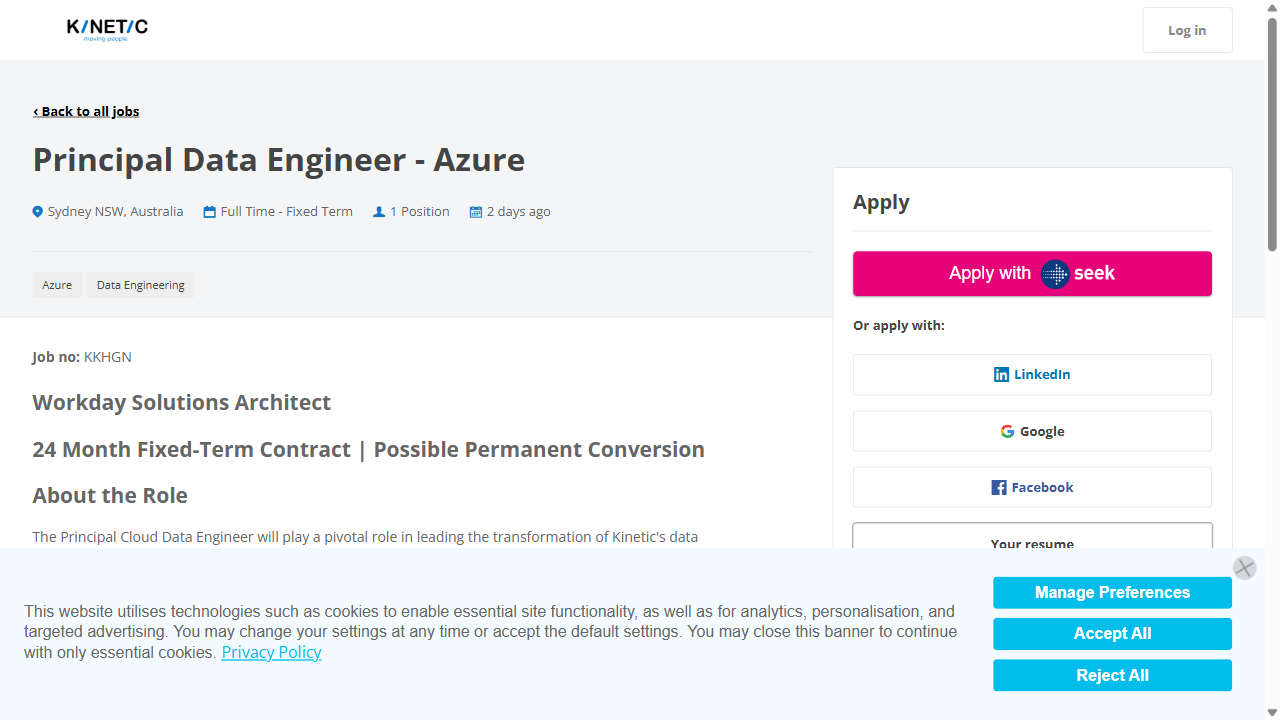
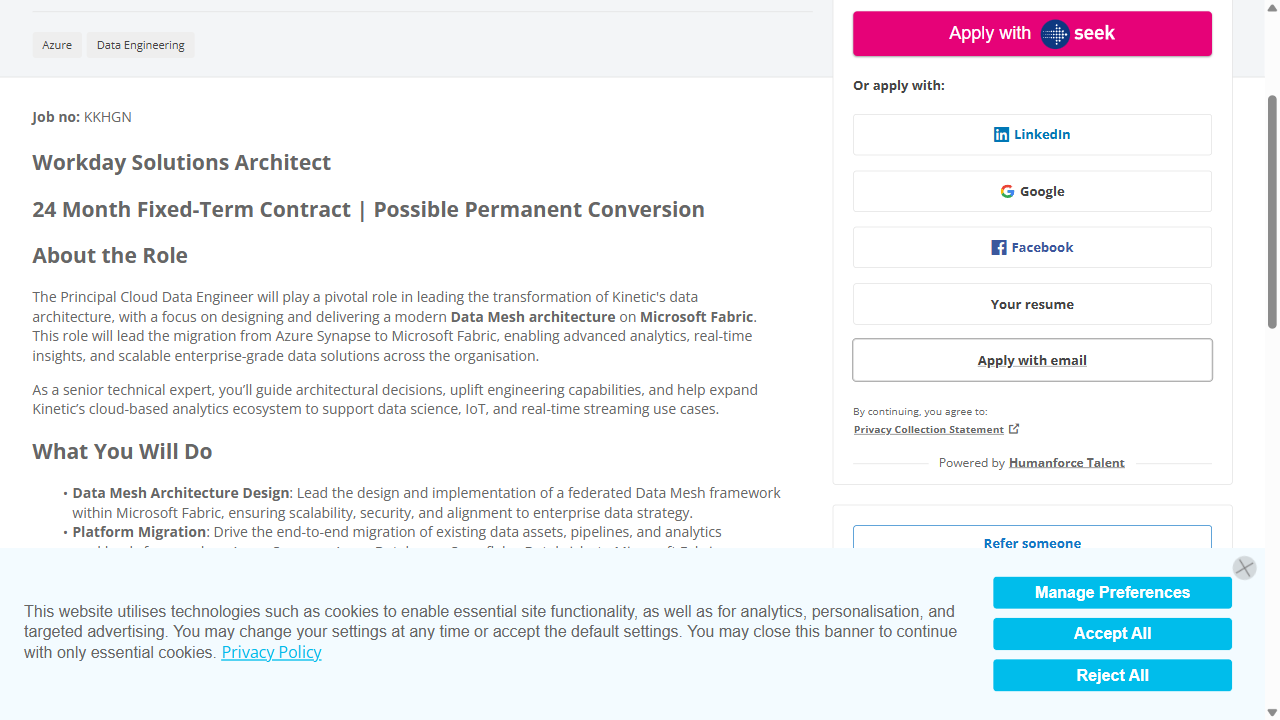
JD extraction from ad

diff --git a/backend/bots/handlers/livehire.py b/backend/bots/handlers/livehire.py
@@ -4,16 +4,28 @@ from bots.utils.form_utils import extract_form_fields, fill_form_by_index
 from bots.utils.claude_field_mapper import get_field_mapping_from_claude
 from app.resume.gpt_utils import generate_cover_letter  
 from bots.utils.pdf_utils import save_cover_letter_as_pdf
+from bots.utils.job_parser import extract_job_details_ai
 
 def apply_livehire(page, resume_path, user_info):
     print("🧠 Starting LiveHire Application Process...")
 
     try:
-        # Step 1: Wait for buttons to load 
+        # Step 1: Extract Job Title & Description via Claude
+        job_title, jd_text = extract_job_details_ai(page)
+        print(f"🧠 Claude-extracted title: {job_title}")
+        print(f"📄 JD length: {len(jd_text)} chars")
+
+        # Step 2: Generate cover letter (PDF + raw text)
+        cover_letter_text = generate_cover_letter(jd_text, user_info.get("resume_text", ""), job_title)
+        cover_letter_path = save_cover_letter_as_pdf(cover_letter_text)
+        user_info["cover_letter"] = cover_letter_text
+        user_info["cover_letter_path"] = cover_letter_path
+
+        # Step 3: Wait for buttons to load
         page.wait_for_selector("button", timeout=10000)
         buttons = page.locator("button")
 
-        # Step 2: Try to find a resume-related button
+        # Step 4: Try to find resume-related button
         matched_button = None
         for i in range(buttons.count()):
             text = buttons.nth(i).text_content()
@@ -24,7 +36,7 @@ def apply_livehire(page, resume_path, user_info):
                     print(f"✅ Found resume-related button: '{clean_text}'")
                     break
 
-        # Step 3: Fallback to Claude if no match
+        # Step 5: Fallback to Claude if no match
         if not matched_button:
             print("🤖 No resume-related button found. Using Claude...")
             texts = [btn.text_content() for btn in buttons.element_handles()]
@@ -33,35 +45,30 @@ def apply_livehire(page, resume_path, user_info):
             print(f"🤖 Claude says to click: '{best_button}'")
             matched_button = page.locator(f"button:has-text('{best_button}')").first
 
-        # Step 4: Click the matched button
+        # Step 6: Click the matched button
         matched_button.wait_for(timeout=10000)
         matched_button.click()
 
-        cover_letter_text = generate_cover_letter(jd_text, resume_text, job_title)
-        cover_letter_path = save_cover_letter_as_pdf(cover_letter_text)
-
-        user_info["cover_letter"] = cover_letter_text
-        user_info["cover_letter_path"] = cover_letter_path
-
-        # Step 5: Extract form structure
+        # Step 7: Extract form fields
         print("🔍 Extracting visible form fields...")
         fields = extract_form_fields(page)
 
-        # Step 6: Get Claude's index-to-userinfo mapping
+        # Step 8: Get Claude's mapping
         print("🧠 Asking Claude to map fields to user info...")
         mapping = get_field_mapping_from_claude(user_info, fields)
 
-        # Step 7: Fill the form
+        # Step 9: Fill the form
         fill_form_by_index(page, fields, mapping, user_info)
 
-        # Step 8: Upload Resume
+        # Step 10: Upload Resume if not already mapped
         try:
-            page.set_input_files("input[type='file']", resume_path)
-            print("📎 Resume uploaded.")
+            if not any("resume" in field["label"].lower() for field in fields):
+                page.set_input_files("input[type='file']", resume_path)
+                print("📎 Resume uploaded manually.")
         except Exception as e:
             print(f"❌ Resume upload failed: {e}")
 
-        # Step 9: Submit the form
+        # Step 11: Submit the form
         try:
             submit = page.locator("button[type='submit'], button:has-text('Submit'), button:has-text('Apply')").first
             submit.click()
@@ -69,15 +76,16 @@ def apply_livehire(page, resume_path, user_info):
         except Exception as e:
             print(f"❌ Could not click submit button: {e}")
 
-        # Step 10: Screenshot
+        # Step 12: Screenshot
         page.screenshot(path="png/livehire_success.png")
+
+        # Step 13: Cleanup
+        try:
+            os.remove(cover_letter_path)
+            print("🧹 Cleaned up temporary cover letter PDF.")
+        except Exception as e:
+            print(f"⚠ Could not delete temp PDF: {e}")
 
     except Exception as e:
         print(f"❌ Failed to apply on LiveHire: {e}")
         page.screenshot(path="png/livehire_failed.png")
-    
-    try:
-        os.remove(user_info["cover_letter_path"])
-        print("🧹 Cleaned up temporary cover letter PDF.")
-    except Exception as e:
-        print(f"⚠ Could not delete temp PDF: {e}")

diff --git a/backend/bots/utils/job_parser.py b/backend/bots/utils/job_parser.py
@@ -1,0 +1,43 @@
+from bots.utils.claude_client import claude_ask
+
+def extract_job_details_ai(page):
+    # Extract all visible text from the page (grouped)
+    all_elements = page.locator("body *:visible")
+    content_blocks = []
+
+    for i in range(min(100, all_elements.count())):  # limit for speed
+        try:
+            text = all_elements.nth(i).text_content().strip()
+            if text and len(text) > 30:  # skip empty or tiny text
+                content_blocks.append(text)
+        except Exception:
+            continue
+
+    all_text = "\n\n".join(content_blocks)
+
+    prompt = f"""
+You are helping extract job information from a job posting webpage.
+
+Below is all the visible content from the job page:
+
+{all_text}
+
+From this, identify and extract only the **Job Title** and **Job Description**.
+Respond in the following JSON format:
+
+{{
+  "job_title": "...",
+  "job_description": "..."
+}}
+"""
+
+    response = claude_ask(prompt)
+
+    try:
+        parsed = eval(response) if isinstance(response, str) else response
+        job_title = parsed.get("job_title", "Job Title")
+        job_description = parsed.get("job_description", "")
+        return job_title.strip(), job_description.strip()
+    except Exception as e:
+        print(f"❌ Failed to parse Claude JD response: {e}")
+        return "Job Title", ""
